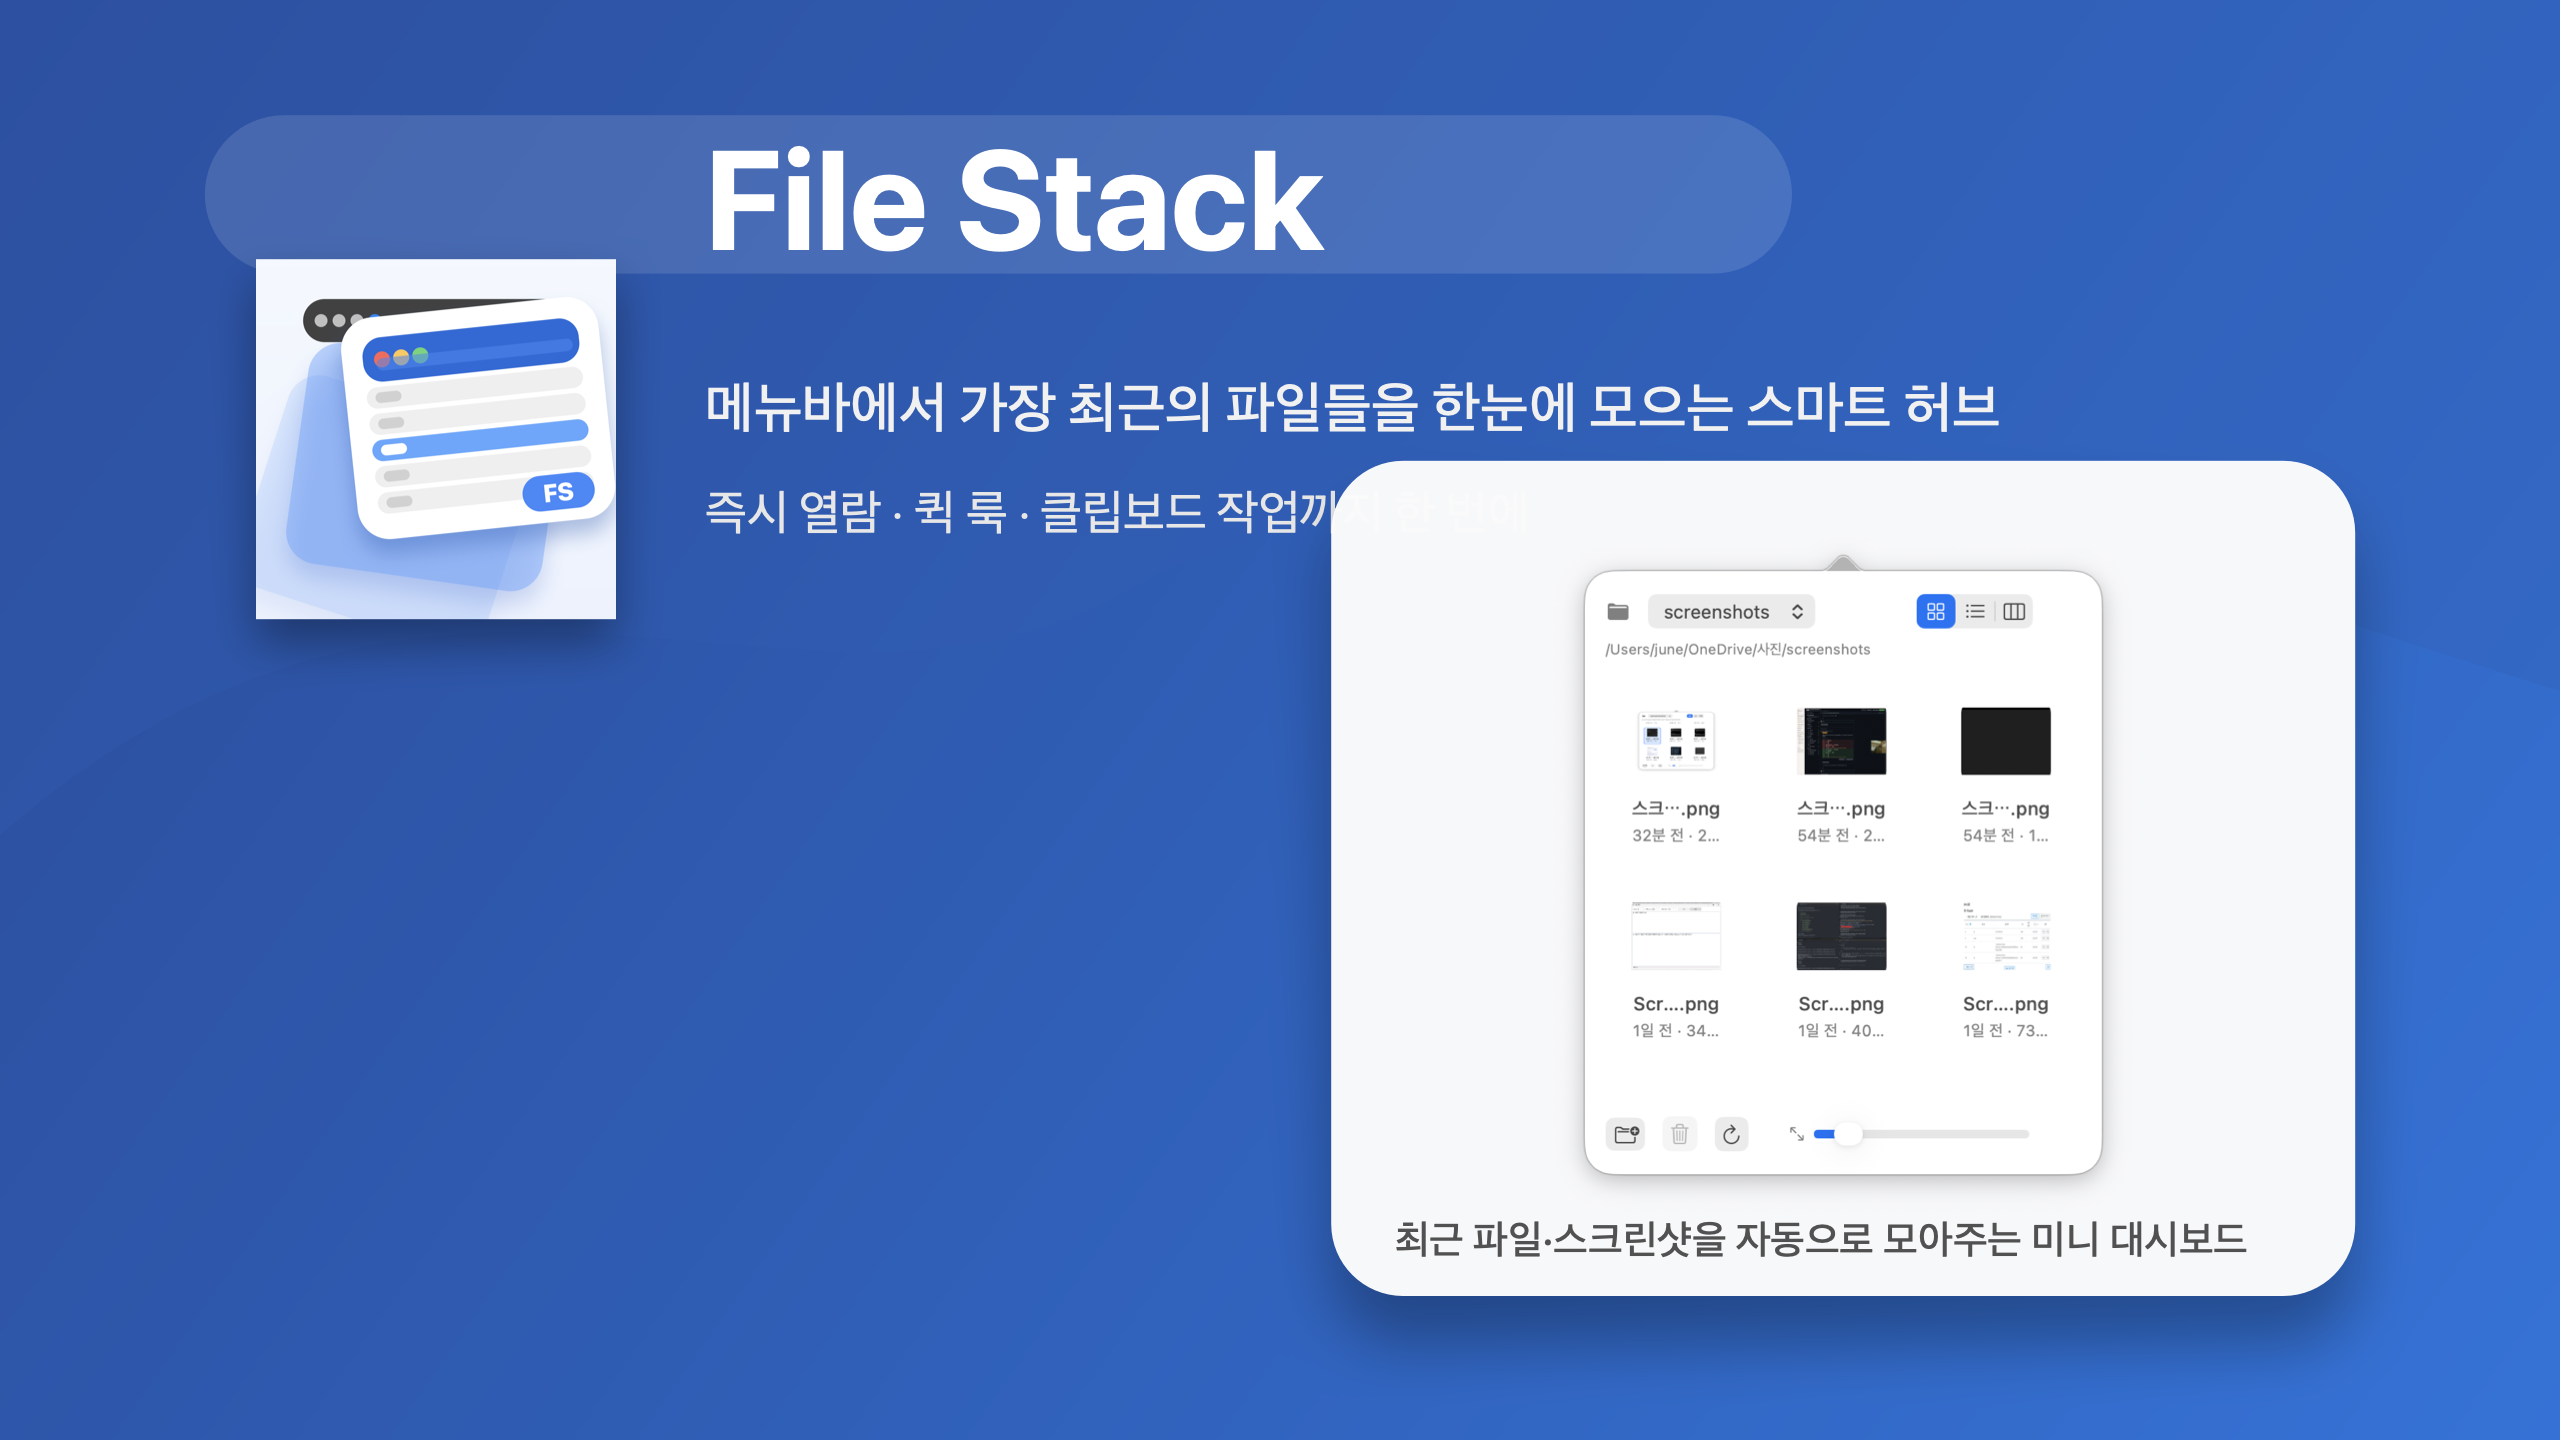
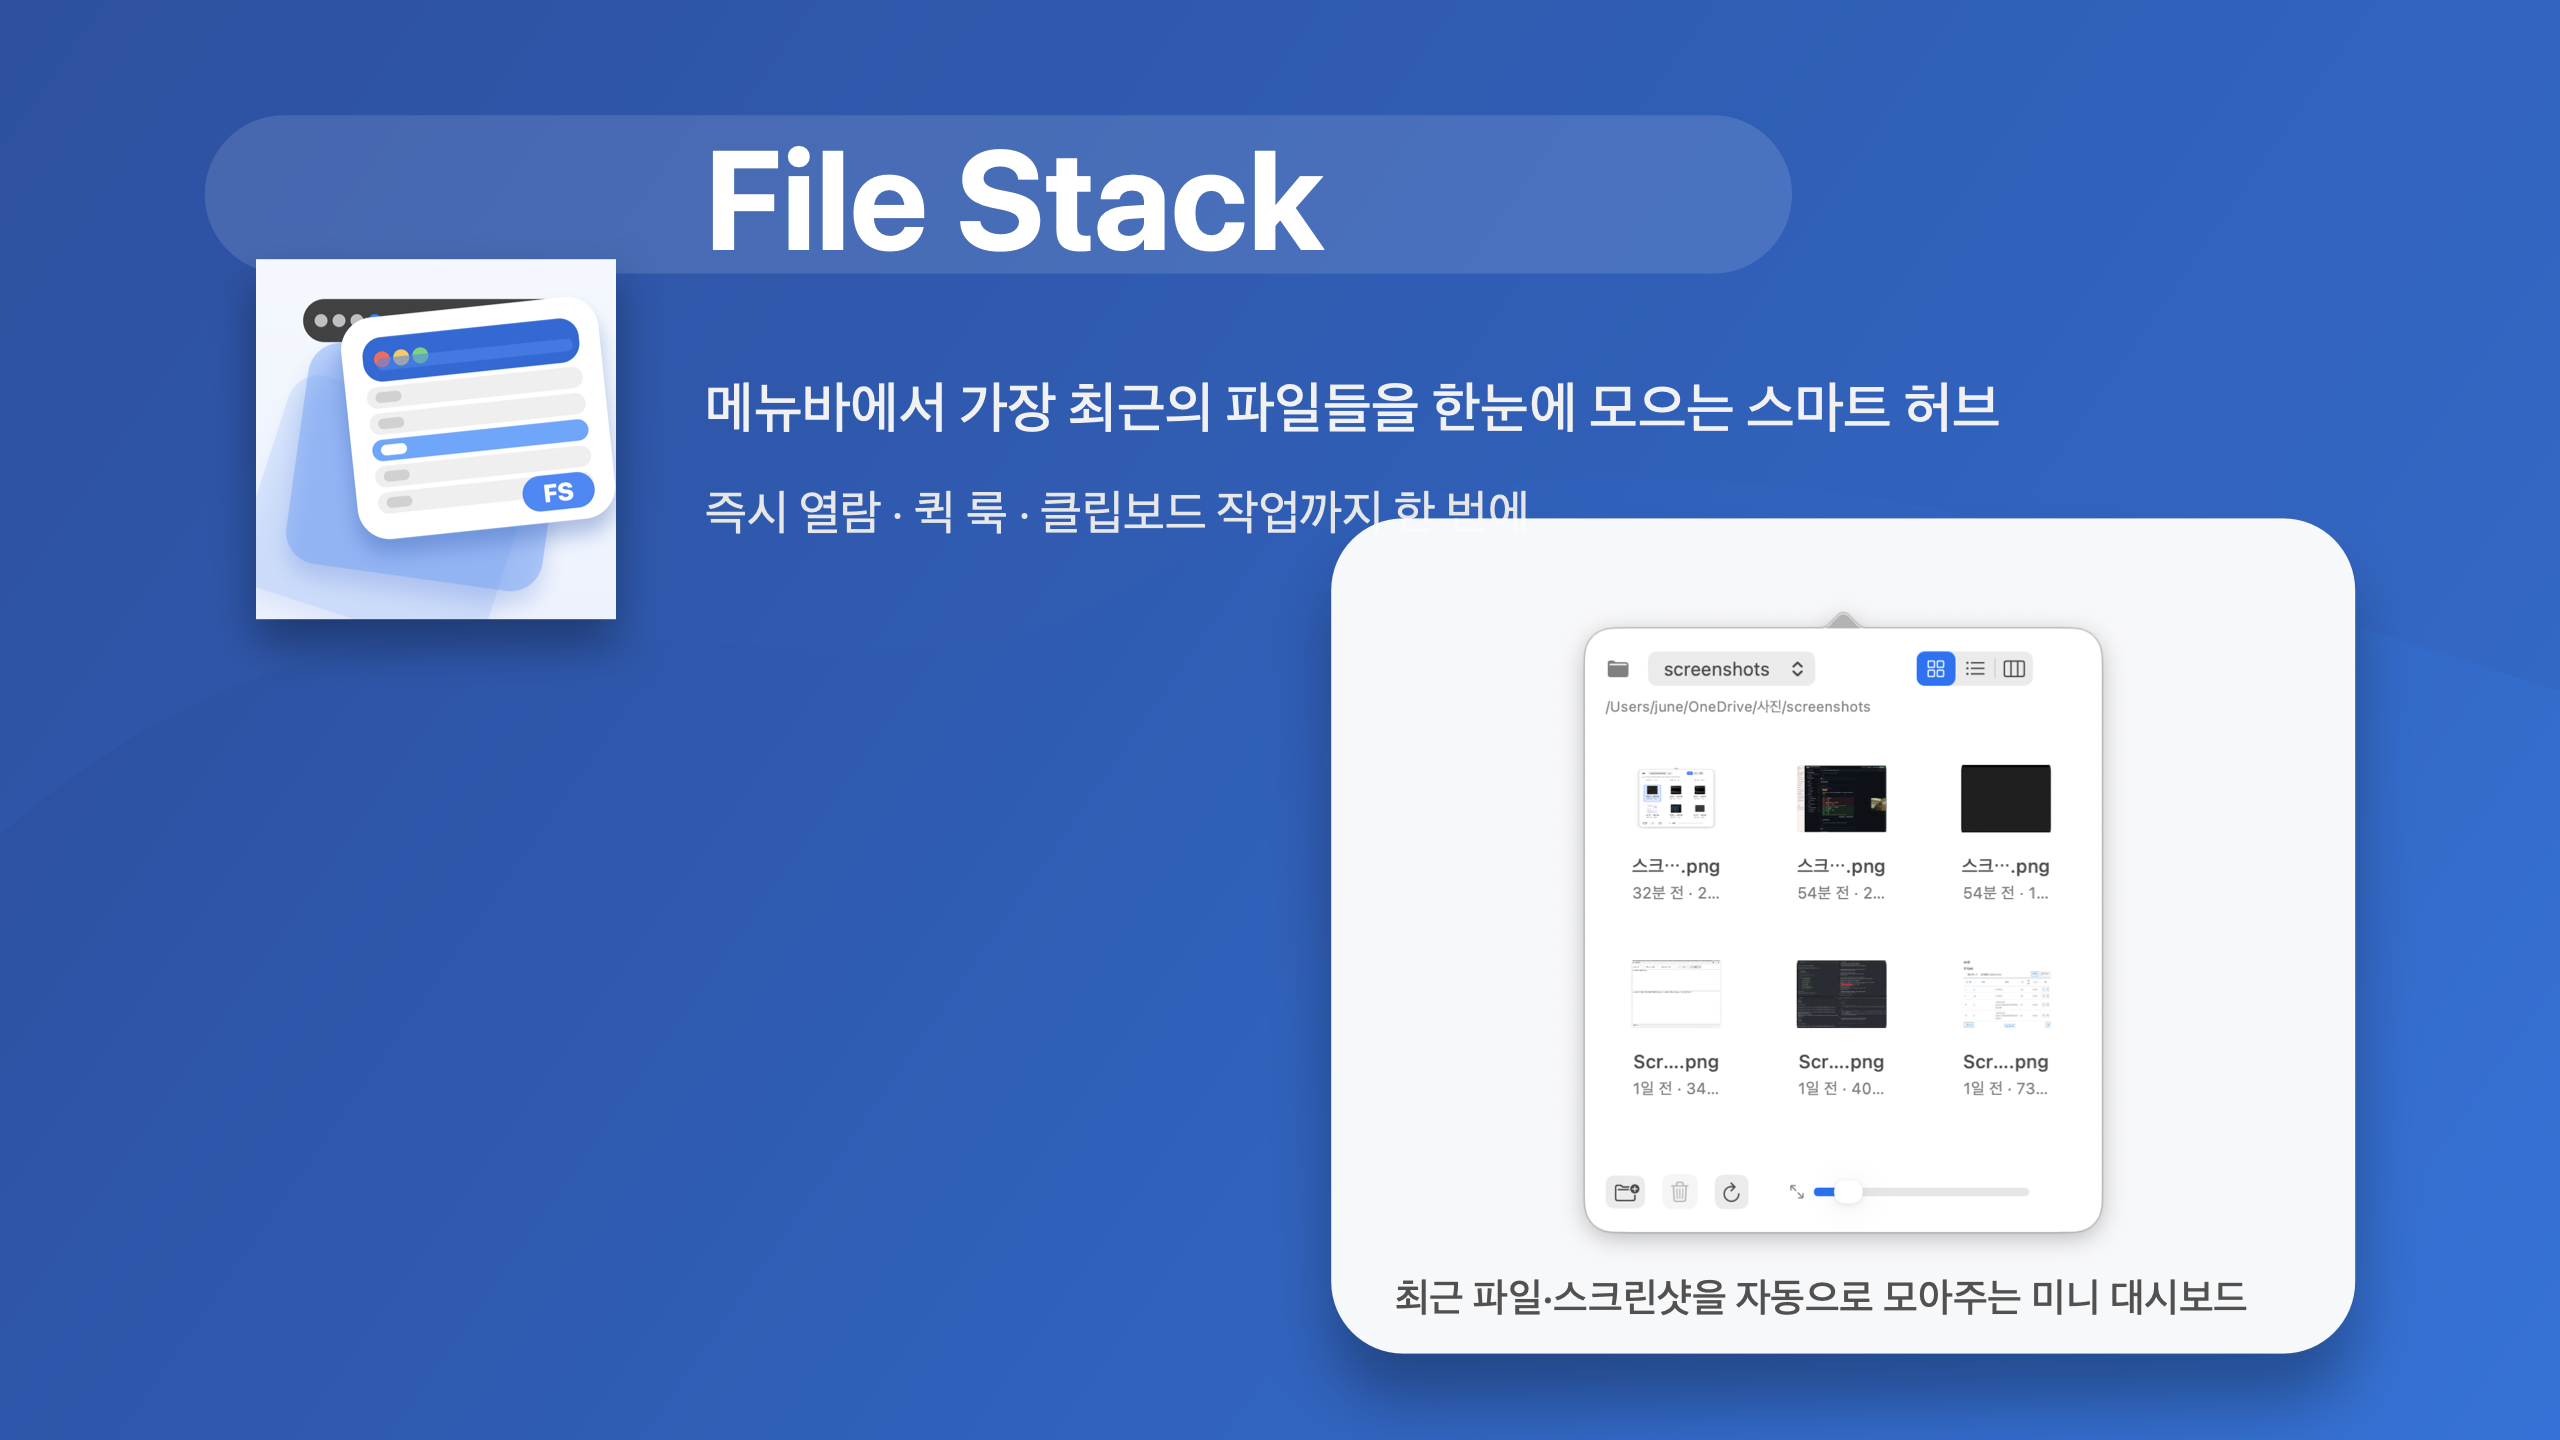
Auto commit: Update hero.png and generate_hero.swift

Changed region(s): [[0.5, 0.3125, 0.9375, 0.75], [0.5, 0.7812, 0.9375, 1.0]]

diff --git a/scripts/generate_hero.swift b/scripts/generate_hero.swift
@@ -133,7 +133,7 @@ let cardWidth = heroWidth * 0.40
 let cardHeight = heroHeight * 0.58
 let cardRect = CGRect(
     x: heroWidth - cardWidth - heroWidth * 0.08,
-    y: heroHeight * 0.10,
+    y: heroHeight * 0.06,
     width: cardWidth,
     height: cardHeight
 )